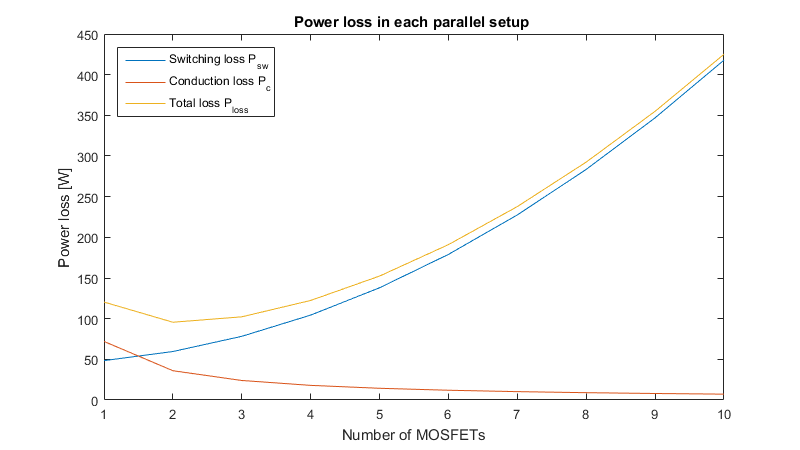
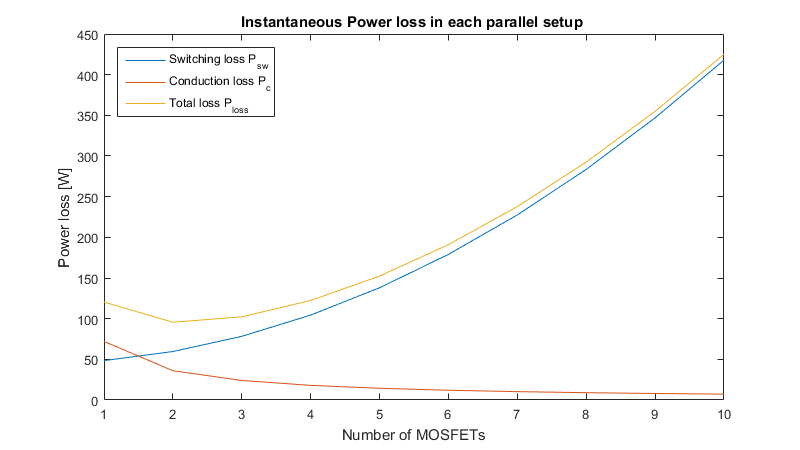
added a section about temperature, fixed some figs

Changed region(s): [[0.2812, 0.0311, 0.75, 0.0622]]

diff --git a/report/sections/threephaseinverter.tex b/report/sections/threephaseinverter.tex
@@ -47,11 +47,10 @@ Additionally, the speed of the motor can be easily changed simply by changing th
 \todo[inline]{Martin: Maybe get a darker color for the lower plot}
 \todo[inline]{Martin: We should extend this to a three phase inverter, as this is only one half bridge, and that is not even a DC inverter}
 
-\subsection{Choosing the MOSFETs}
+\subsection{Choosing the MOSFETs}\label{sub:choosing_mosfets}
 \label{sec:mosfet}
-Before choosing the MOSFETs one will have to keep in mind the application parameters.
-Firstly the voltage of the batteries\cite{superB} will on full charge have nominal voltage of 52.8V and a maximum end of charge voltage at 60.8V.
-\todo[inline]{Martin: The end of charge voltage is the maximum. 52.8 is the average, used to indicate power capacity of the battery}
+Before choosing MOSFETs for the three phase inverter one will have to keep in mind the application parameters.
+Firstly the batteries\cite{superB} will have average nominal voltage of $52.8V$ and end of charge voltage at $60.8V$.
 The MOSFETs will therefor need to be able to handle a minimum drain to source voltage, $V_{DS}$, of 60.8V. 
 Secondly, the current drawn by the motor can reach a maximum peak of 300A.
 Thirdly, the motor driver\cite{DRV8301} will supply a gate voltage, $V_{GS}$, of 9.5V to 11.5V. 
@@ -74,7 +73,8 @@ The three main requirements are listed in table \ref{tab:req1}\\
 
 Due to high currents through the MOSFETs, the heat dissipation is assumed to be high as well. 
 To prevent overheating and burning out the MOSFETs they will be mounted on to a heat sink. 
-Therefore a through hole package will be suitable for this application. The chosen package is the TO-247. And the MOSFET International rectifier power MOSFET IRFP4468PBF is chosen\todo{Erlingur - why this package and MOSFET?}.
+Therefore a through hole package will be required for this application. 
+Because of its size and easy mounting, the chosen package is the TO-247 package\cite{TO_247}. When looking for MOSFETs that add up to the requirements of table~\ref{tab:req1}, the International rectifier power MOSFET IRFP4468PBF is chosen.
 
 \begin{table}[h!]
 	\centering
@@ -100,10 +100,8 @@ Therefore a through hole package will be suitable for this application. The chos
 \end{tabular}
 \label{tab:MOSdata}
 \end{table}
-
-The MOSFET parameters in table~\ref{tab:MOSdata} seems to add up to all the requirements in table~\ref{tab:req1}. \todo{Martin: well not really. Even the silicon limit isn't enought to handle 300 A comfortably.}
-However the TO-247 package has a continuous drain current limit of 195A that is only around two third of the minimum current requirement. 
-This problem can be solved using at least two MOSFETs in parallel. 
+The TO-247 package has a continuous drain current limit of 195A that is only around two third of the minimum current requirement. 
+With that in mind, the MOSFET parameters in table~\ref{tab:MOSdata} seem to be a  suitable chose for the application if more than one MOSFET is used for each switching side. 
 Using the parallel setup, the MOSFETs are assumed to share the current equally. 
 If one would draw more current than the others, the temperature would rise causing $R_{DS(on)}$ to rise as seen in figure~\ref{fig:tj_rds}. 
 That will then result in reduced current.
@@ -121,15 +119,15 @@ P_{loss} = P_{c} + P_{sw}
 
 For simplicity the power loss will be estimated from a single phase of the inverter circuit seen in figure~\ref{fig:single_phase}. 
 The current $I_{out}$ is drawn by some load $R_{load}$ that will absorb the load power $P_{load}$ which is given by equation\ref{eq:p_load}. 
-Since there are two switches, $Q_1$ and $Q_2$, the load power must be delivered equally from both. Thus the output power, $P_{Q}$, of each switch is given by equation~\ref{eq:P_Q}  
+Since there are two switches, $Q_1$ and $Q_2$, it is assumed that the load power is delivered equally from both. The output power, $P_{Q}$, of each switch is given by equation~\ref{eq:P_Q}  
 
 
-%\begin{figure}[!h]
-%	\centering
-%	\includestandalone[width=0.2\textwidth]{graphics/mosfets}
-%	\caption{Single phase}
-%	\label{fig:single_phase}
-%\end{figure}
+\begin{figure}[!h]
+	\centering
+	\includestandalone[width=0.2\textwidth]{graphics/mosfets}
+	\caption{Single phase}
+	\label{fig:single_phase}
+\end{figure}
 
 
 \begin{equation}
@@ -142,7 +140,6 @@ P_{Q} = \dfrac{P_{load}}{2} = R_{load} I_{Qi,rms}^2
 \label{eq:P_Q}
 \end{equation}
 
-\todo[inline]{Martin: Don't consider the Rload when looking at I\_Q}
 
 With insertion of equation~\ref{eq:p_load} into~\ref{eq:P_Q} and solving for $I_{Qi,rms}$, equation~\ref{eq:I_qrms} is formed.
 
@@ -157,7 +154,6 @@ I_{Qi,rms} = \dfrac{I_{out,rms}}{\sqrt{2}} = \dfrac{I_{out}}{\sqrt{2}\sqrt{2}} =
 \label{eq:I_qi}
 \end{equation}
 
-\todo[inline]{Martin: I think there's a shorter way to this conclusion: Since each mosfet is on half the time, it is safe to assume that half the current out must be cunducted by each mosfet}
 
 As mentioned earlier each switching setup will consist of $n$ number of MOSFETs in parallel. Therefor the Drain current of each parallel MOSFET becomes $I_{Pi,rms}$ in equation~\ref{eq:I_pi}.
 
@@ -177,12 +173,12 @@ P_{c} = R_{DS(on)} I_{Pi,rms}^2
 \end{equation}
 
 
-Although listed in the datasheet, the drain to source resistance $R_{DS(on)}$ only applies to the  $T_J = 25 \si{\degree \celsius}$ condition. 
+Although listed in the datasheet, the drain to source resistance $R_{DS(on)}$ only applies to the  $T_J = 25 \si{\celsius}$ condition. 
 The resistance will vary with the junction temperature $T_J$. 
 The relation between $T_J$ and $R_{DS(on)}$ can be seen in figure~\ref{fig:tj_rds} from where the multiplication factor $\alpha$ in equation~\ref{eq:Rdstj} can be estimated.
 
 \begin{equation}
-R_{DS(on),@T_J} =  \alpha R_{DS(on),@25\si{\degree \celsius}}
+R_{DS(on),@T_J} =  \alpha R_{DS(on),@25\si{\celsius}}
 \label{eq:Rdstj}
 \end{equation}
 
@@ -193,14 +189,13 @@ R_{DS(on),@T_J} =  \alpha R_{DS(on),@25\si{\degree \celsius}}
 	\label{fig:tj_rds}
 \end{figure}
 
-If assumed that the junction temperature will be around $100 \si{\degree \celsius}$ one can estimate the factor being somewhere close to $\alpha = 1.6$. 
-The conduction loss for each MOSFET in parallel can then be estimated using equations~\ref{eq:p_c}, \ref{eq:I_pi} and \ref{eq:Rdstj} to form equation~\ref{eq:P_cp}.
+If assumed that the junction temperature will be around $100 \si{\celsius}$ one can estimate the factor being somewhere close to $\alpha = 1.6$. 
+The instantaneous conduction loss for each MOSFET in parallel can then be estimated using equations~\ref{eq:p_c}, \ref{eq:I_pi} and \ref{eq:Rdstj} to form equation~\ref{eq:P_cp}.
 
 \begin{equation}
-P_{c} = R_{DS(on),@100\si{\degree \celsius}} I_{Pi,rms}^2 =  R_{DS(on),@100\si{\degree \celsius}} \bigg(\dfrac{I_{out}}{2n}\bigg)^2
+P_{c} = R_{DS(on),@100\si{\celsius}} I_{Pi,rms}^2 =  R_{DS(on),@100\si{\celsius}} \bigg(\dfrac{I_{out}}{2n}\bigg)^2
 \label{eq:P_cp}
 \end{equation}
-\todo[inline]{Martin: Is this instantaneous power loss, or continious}
 
 \subsubsection{Switching loss}
 Whenever any MOSFET is switching from its on state to its off state or vice versa, a small amount of energy is lost, as the MOSFET passes through its active region.
@@ -208,17 +203,17 @@ This loss can be found with experiments or estimated from calculations.
 An experiment will not be carried out at this point but the loss will be estimated with calculations and assumptions using equation~\ref{eq:P_sw}.
 
 \begin{equation}
-P_{sw} = \dfrac{1}{2} V_{in} I_0 (t_{c,on} + t_{c,off} ) f_{s}
+P_{sw} = \dfrac{1}{2} V_{in} I_D (t_{c,on} + t_{c,off} ) f_{s}
 \label{eq:P_sw}
 \end{equation}
 
-where $I_0$ is the drain current, $I_{Pi,rms}$, of each MOSFET from equation~\ref{eq:I_pi} and $\mathrm{V_{in}}$ is the supply voltage for the inverter. 
+where $I_D$ is the drain current, $I_{Pi,rms}$, of each MOSFET from equation~\ref{eq:I_pi} and $\mathrm{V_{in}}$ is the supply voltage for the inverter. 
 The times $t_{c,on} $ and $ t_{c,off} $ are the combined on and off time respectively and are defined in figure~\ref{fig:sw_loss} as equation~\ref{eq:time_on} and~\ref{eq:time_off}
 
 \begin{figure}[h!]
 	\centering
 	\includegraphics[scale = 0.5]{graphics/sw_losses}
-	\caption{MOSFET switching losses}
+	\caption[MOSFET switching losses.]{MOSFET switching losses. $t_{ri}$ and $t_{fi}$ are the current,$I_D$, rise and fall times respectively and $t_{rv}$ and $t_{fv}$ are the rise and fall time of $D_{DS}$ respectively.}
 	\label{fig:sw_loss}
 \end{figure}
 
@@ -229,9 +224,9 @@ t_{c,off} = t_{rv} + t_{fi}
 \label{eq:time_off}
 \end{eqnarray}
 
-\todo[inline]{Martin: Should be an explaination of what the subscribts mean.}
-
-The $V_{DS}$ rise and fall times $t_{rv}$ and $t_{fv}$ in figure~\ref{fig:sw_loss} are defined in the MOSFET datasheet~\cite{IRF4468PbF} as the rise and fall times $t_r$ and $t_f$ seen in figure~\ref{fig:sw_time_wavef}. The times are listed in table~\ref{tab:tf_tr}.
+The voltage rise and fall times $t_{rv}$ and $t_{fv}$ respectively in figure~\ref{fig:sw_loss} are the time it takes the drain to source voltage, $V_{DS}$ to rise from zero to $V{in}$ and opposite. 
+The values are defined in the MOSFET datasheet\cite{IRF4468PbF} as the rise and fall times $t_r$ and $t_f$ seen in figure~\ref{fig:sw_time_wavef}. 
+The times are listed in table~\ref{tab:tf_tr}.
 Equation~\ref{eq:tfv_tr} and \ref{eq:trv_tf} show the relation.
 
 \begin{figure}[h!]
@@ -284,7 +279,7 @@ From there one can see that the current rise and fall times, $t_{ri}$ and $t_{fi
 \end{figure}
 
 The gate to source current, $I_(gs)$ is defined in equation\ref{eq:I_gs} where $dt$ are the current rise and fall times $t_{ri}$ and $t_{fi}$ respectively. 
-$dV$ is the difference between $V_{GS(th)}$ and $V_{GS(I_0)}$ as seen in equation~\ref{eq:dv}.
+$dV$ is the difference between $V_{GS(th)}$ and $V_{GS(I_0)}$ as seen in equation~\ref{eq:dv} and n is the number of MOSFETs in parallel.
 
 \begin{equation}
 I_{gs} = nC\dfrac{dV}{dt} 
@@ -296,42 +291,104 @@ dV = |V_{GS(I_0)} - V_{GS(th)}|
 \label{eq:dv}
 \end{equation}
 
-However the gate to source current is known. The motor driver sources up to $1.7A$ when in the on state and sinks up to $2A$ when in off state\cite{DRV8301}. Equation~\ref{eq:I_gs} can then be rearranged for $dt$ as shown in equation~\ref{eq:dt}.
+For simplicity it is assumed that the gate charge current remains constant. 
+Then one can assume that the gate to source current is known. 
+The motor driver sources up to $1.7A$ when in the on state and sinks up to $2A$ when in off state\cite{DRV8301}. 
+Equation~\ref{eq:I_gs} can then be rearranged for $dt$ as shown in equation~\ref{eq:dt}. 
+It is assumed that the charge current will be a constant for.
 
 \begin{equation}
 dt = nC\dfrac{dV}{I_{gs}}
 \label{eq:dt}
 \end{equation}
 
-\todo[inline]{Martin: I assume, that n is still number of mosfets in parallel? This also assumes, that we can charge the gates with a constant current, which we cant with a gate resistor of 4.5 Ohm}
+
 
 \subsection{Total Power loss}
 
-The power losses are calculated for up to 10 MOSFETs in parallel using equations~\ref{eq:P_cp}, \ref{eq:P_sw} and~\ref{eq:p_loss} where the switching frequency is $f_s = 20kHz$. Figures~\ref{fig:ploss_single} and~\ref{fig:ploss_comb} show the results.
+The instantaneous power losses are calculated for up to 10 MOSFETs in parallel using equations~\ref{eq:P_cp}, \ref{eq:P_sw} and~\ref{eq:p_loss} where the switching frequency is $f_s = 20kHz$. Figures~\ref{fig:ploss_single} and~\ref{fig:ploss_comb} show the results.
 
 
 \begin{figure}[h!]
 	\centering
 	\includegraphics[scale = 0.5]{graphics/pwr_loss_single}
-	\caption{Power losses of a single MOSFET in a parallel setup as a function of number of MOSFETs}
+	\caption{Instantaneous Power losses of a single MOSFET in a parallel setup as a function of number of MOSFETs}
 	\label{fig:ploss_single}
 \end{figure}
 
 In Figure~\ref{fig:ploss_single} the losses are calculated for each MOSFET in a parallel setup of $n$ MOSFETs. 
 One will notice, as former stated, that the number of MOSFETs in parallel, effects the power loss much.
-The conduction loss will decrease fast and will become close to nothing when $n$ increases. This happens because the current is equally divided between the MOSFETs, thus, each MOSFET has less current flowing through. The switching loss however increases with $n$ and will become dominant. In that case the gate capacitance will increase by a factor of $n$ causing the switching loss to increase.
+The conduction loss will decrease fast and will become close to nothing when $n$ increases. 
+This happens because the current is equally divided between the MOSFETs, thus, each MOSFET has less current flowing through. 
+The switching loss however increases with $n$ and will become dominant. In that case the gate capacitance will increase by a factor of $n$ causing the switching loss to increase.
+
 \begin{figure}[h!]
 	\centering
 	\includegraphics[scale = 0.5]{graphics/pwr_loss_comb}
-	\caption{Combined power losses of each parallel setup as a function of number of MOSFETs}
+	\caption{Combined instantaneous power losses of each parallel setup as a function of number of MOSFETs}
 	\label{fig:ploss_comb}
 \end{figure}
 
-From the combined power loss shown in figure~\ref{fig:ploss_comb}, it is clear that the total power loss is smallest when $n = 2$ or $P_{loss} \approx 95W$. The design will have two MOSFETs in parallel switching each phase. The total power loss will then become for all three phases, six parallel setups.
+From the combined power loss shown in figure~\ref{fig:ploss_comb}, it is clear that the total instantaneous power loss is smallest when $n = 2$ or $P_{loss} \approx 95W$. 
+The design will have two MOSFETs in parallel switching each phase. The total instantaneous power loss will then become for all three phases as seen in equation~\ref{eq:P_loss_total}.
+\begin{equation}
+P_{loss,total} = 95*6 = 570W
+\label{eq:P_loss_total}
+\end{equation}
 
-\begin{equation*}
-P_{loss} = 95*6 = 570W
-\end{equation*}
+\subsection{Temperature}
+
+The power losses defined in previous sections will cause the MOSFETs to heat up while operating. 
+Therefore they will be mounted on to a heat sink as mentioned in section\ref{sub:choosing_mosfets}. 
+To get an estimate on how hot the MOSFETs will be, equations~\ref{eq:Ta}, \ref{eq:Tc} and \ref{eq:Tj} are used. 
+$T_s$ is the MOSFET source temperature, $T_c$ the case temperature  and $T_j$ is the junction temperature.
+The parameter can be seen in table~\ref{tab:temp_param}. 
+to get some idea of the temperature it is assumed that the time it takes the motor to get from zero to full power, $t = 5s$. 
+The system will for that time be operating at maximum torque.
+in reality, other factors will effect the power dissipation but will not be discussed further.
+ 
+
+\begin{table}[h!]
+	\centering
+	\caption{Parameters used to calculate the temperature}
+	\begin{tabular}{|c|l|c|c|}
+		\hline
+		Symbol & \multicolumn{1}{c|}{Parameter} & Value & Units\\
+		\hline
+		$T_{J,max}$ & MOSFET maximum junction temperature & 175 & \si{\celsius}\\
+		\hline
+		$R_{jc}$ & MOSFET Junction to Case thermal resistance & 0.29 & \multirow{3}{*}{\si{\celsius/W}}\\
+		\cline{1-3}
+		$Re_{cs}$ & MOSFET Case to Sink thermal resistance & 0.24 &\\
+		\cline{1-3}
+		$R_{sa}$ & heat sink Thermal resistance & 0.29 & \\
+		\hline
+		$C_s$ & heat sink Thermal capacitance  & 2190 &\si{\joule/\celsius}\\
+		\hline
+		$P_{loss,total}$ & instantaneous power loss of each MOSFET & 570 & \si{\watt}\\
+		\hline
+	\end{tabular}
+	\label{tab:temp_param}
+\end{table}
 
 
-\todo[inline]{Martin: We should write something about the Driver and the capacitor choices}
+
+\begin{eqnarray}
+T_s  & = & (R_{sa}P_{loss,total})\bigg(1-exp(-\dfrac{t}{R_{sa}C_s})\bigg) + T_a
+\label{eq:Ta}\\
+T_c & = & T_s + P_{loss}R_{cs}
+\label{eq:Tc}\\
+T_j & = & T_c + P_{loss}R_{jc}
+\label{eq:Tj}
+\end{eqnarray}
+
+
+The temperatures are calculated to be:
+
+\begin{eqnarray*}
+T_s & = &  26\si{\celsius}\\
+T_c & = &  49\si{\celsius}\\
+T_j & = &  77\si{\celsius}\\
+\end{eqnarray*}
+
+The calculated junction temperature is well below the maximum ratings shown in table~\ref{tab:temp_param}. It is safe to assume that the MOSFETs will not reach the maximum.

diff --git a/report/bib.tex b/report/bib.tex
@@ -27,4 +27,7 @@
 	\bibitem{pmac_equivalent_diagram}
 		A. B. Dehkordi, Student Member, IEEE, A. M. Gole, Senior Member, IEEE, T. L. Maguire, Senior Member, IEEE; 'Permanent Magnet Synchronous Machine Model for
 Real- Time Simulation'
+	\bibitem{TO_247}
+		Vishay Siliconix, July. 2013, TO-247AC (High Voltage) Package Information
+
 \end{thebibliography}

diff --git a/report/main.tex b/report/main.tex
@@ -26,6 +26,8 @@
 
 \usepackage{todonotes}
 \usepackage{listings}
+\usepackage{multirow}
+
 
 \usepackage{chngcntr} %Change the counters of objects. Used to make figure/table and equation counting specific to the section they are in.
 \counterwithin{figure}{section}
